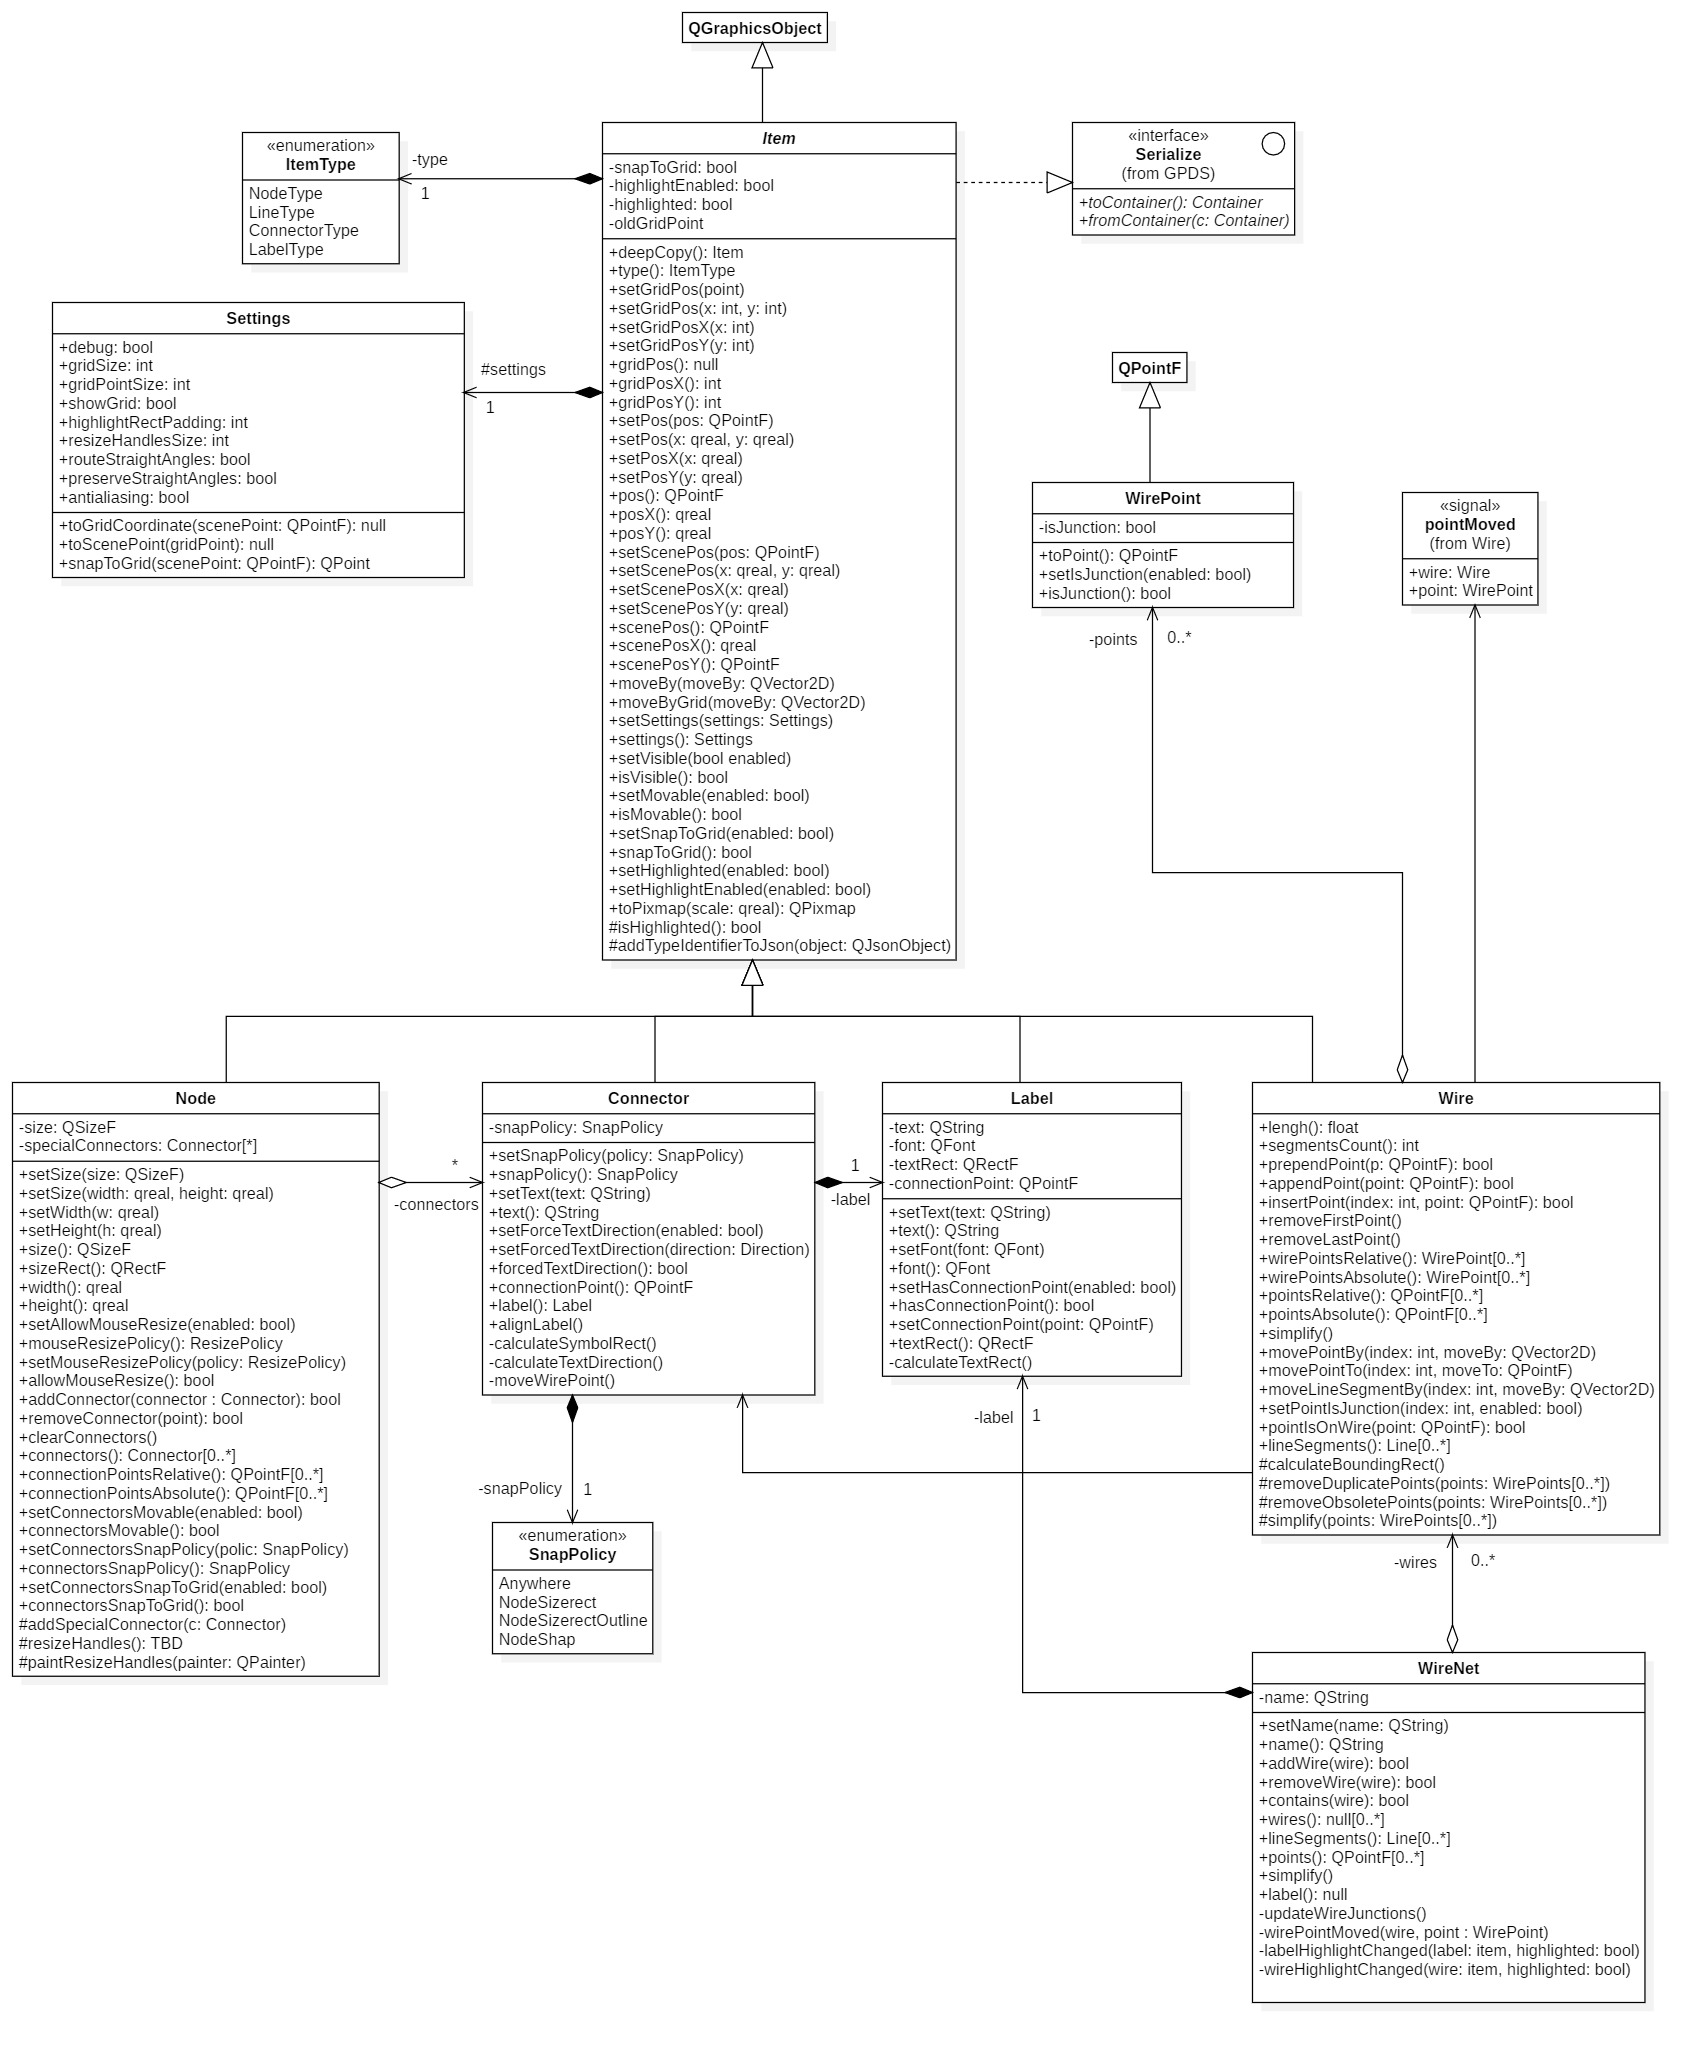
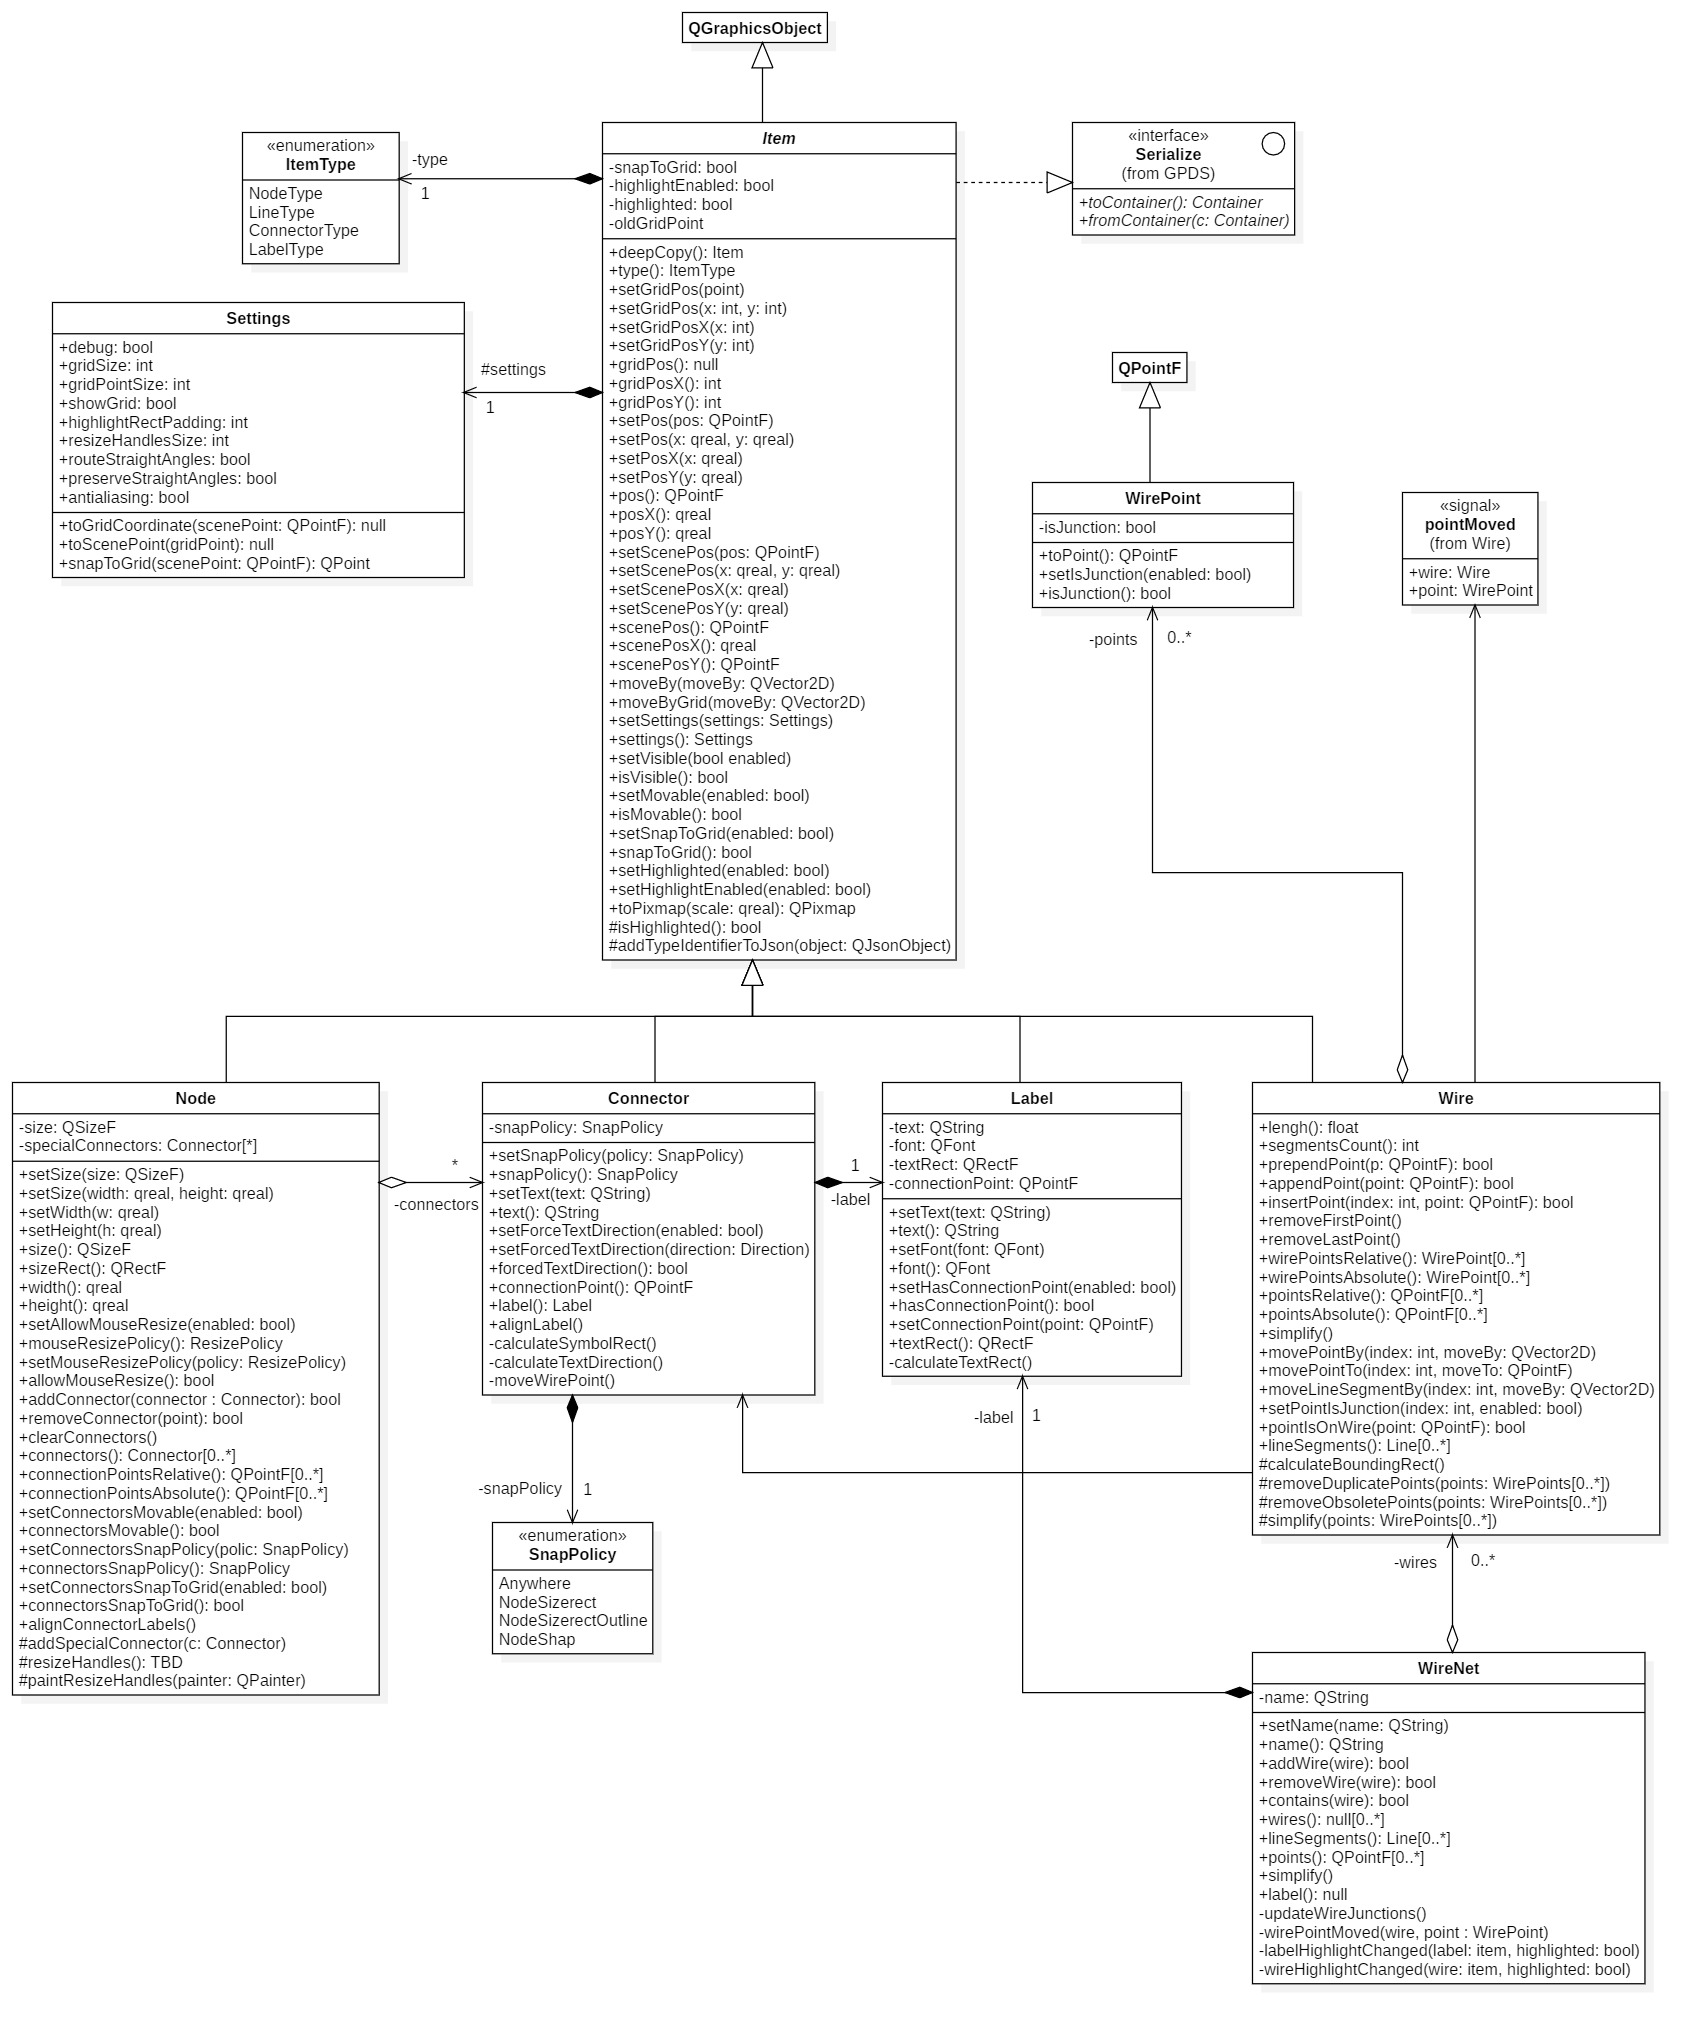
Add Node::alignConnectorLabels()

diff --git a/qschematic/items/node.h b/qschematic/items/node.h
@@ -61,6 +61,7 @@ namespace QSchematic {
         Connector::SnapPolicy connectorsSnapPolicy() const;
         void setConnectorsSnapToGrid(bool enabled);
         bool connectorsSnapToGrid() const;
+        void alignConnectorLabels() const;
 
         virtual void mousePressEvent(QGraphicsSceneMouseEvent* event) override;
         virtual void mouseReleaseEvent(QGraphicsSceneMouseEvent* event) override;

diff --git a/qschematic/items/node.cpp b/qschematic/items/node.cpp
@@ -395,6 +395,14 @@ bool Node::connectorsSnapToGrid() const
     return _connectorsSnapToGrid;
 }
 
+void Node::alignConnectorLabels() const
+{
+    for (auto connector : _connectors) {
+        Q_ASSERT(connector);
+        connector->alignLabel();
+    }
+}
+
 void Node::mousePressEvent(QGraphicsSceneMouseEvent* event)
 {
     event->accept();
